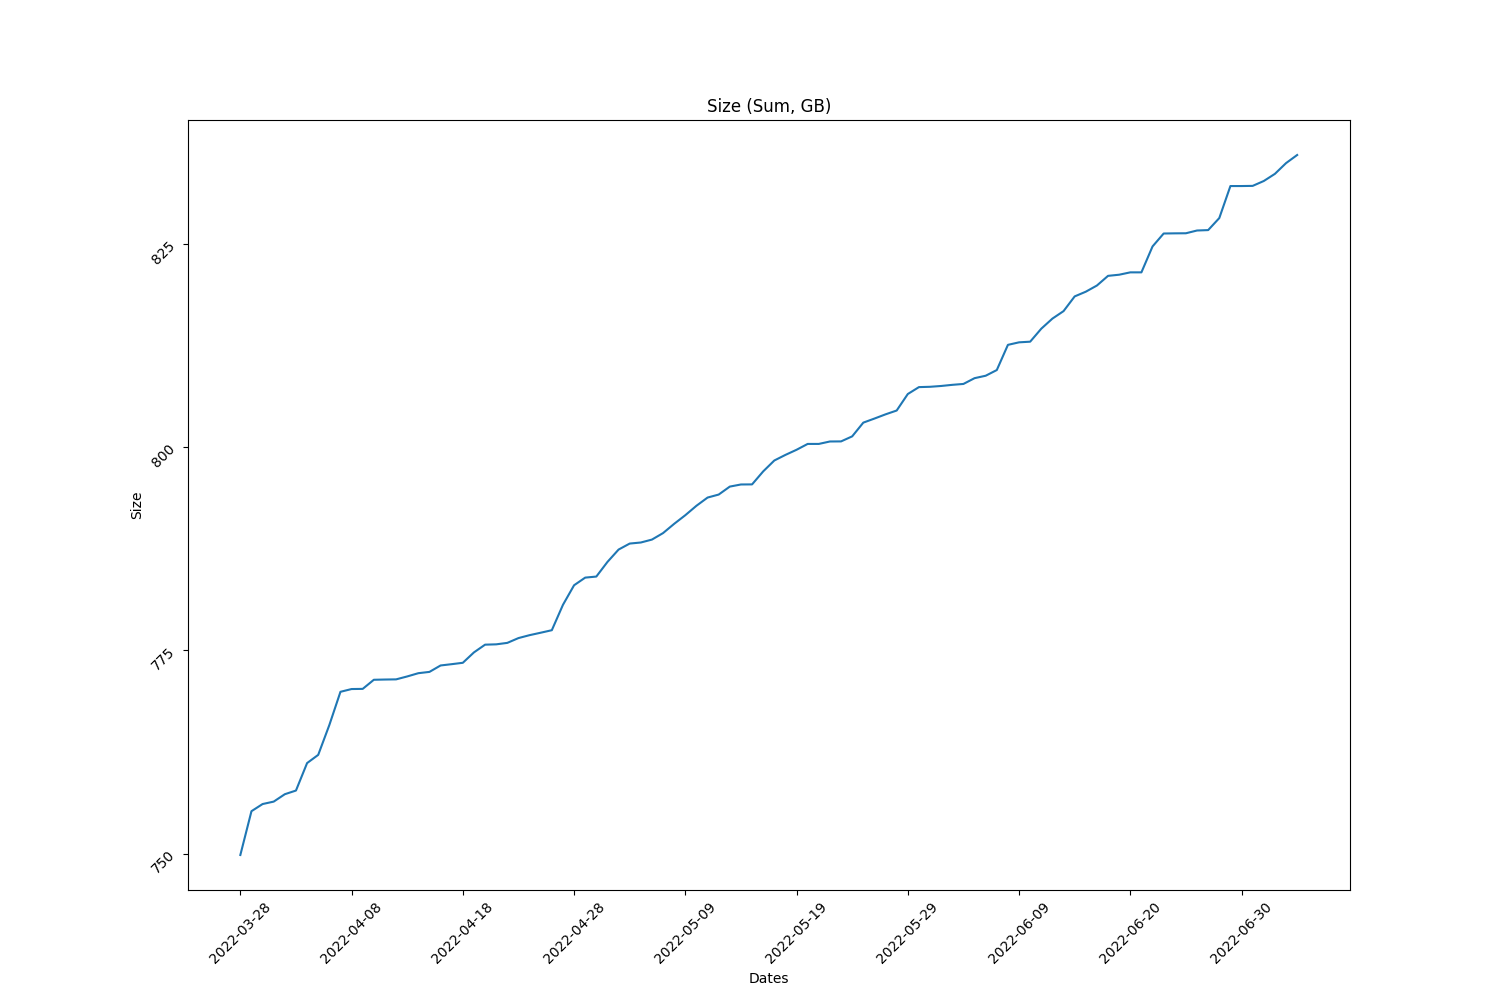
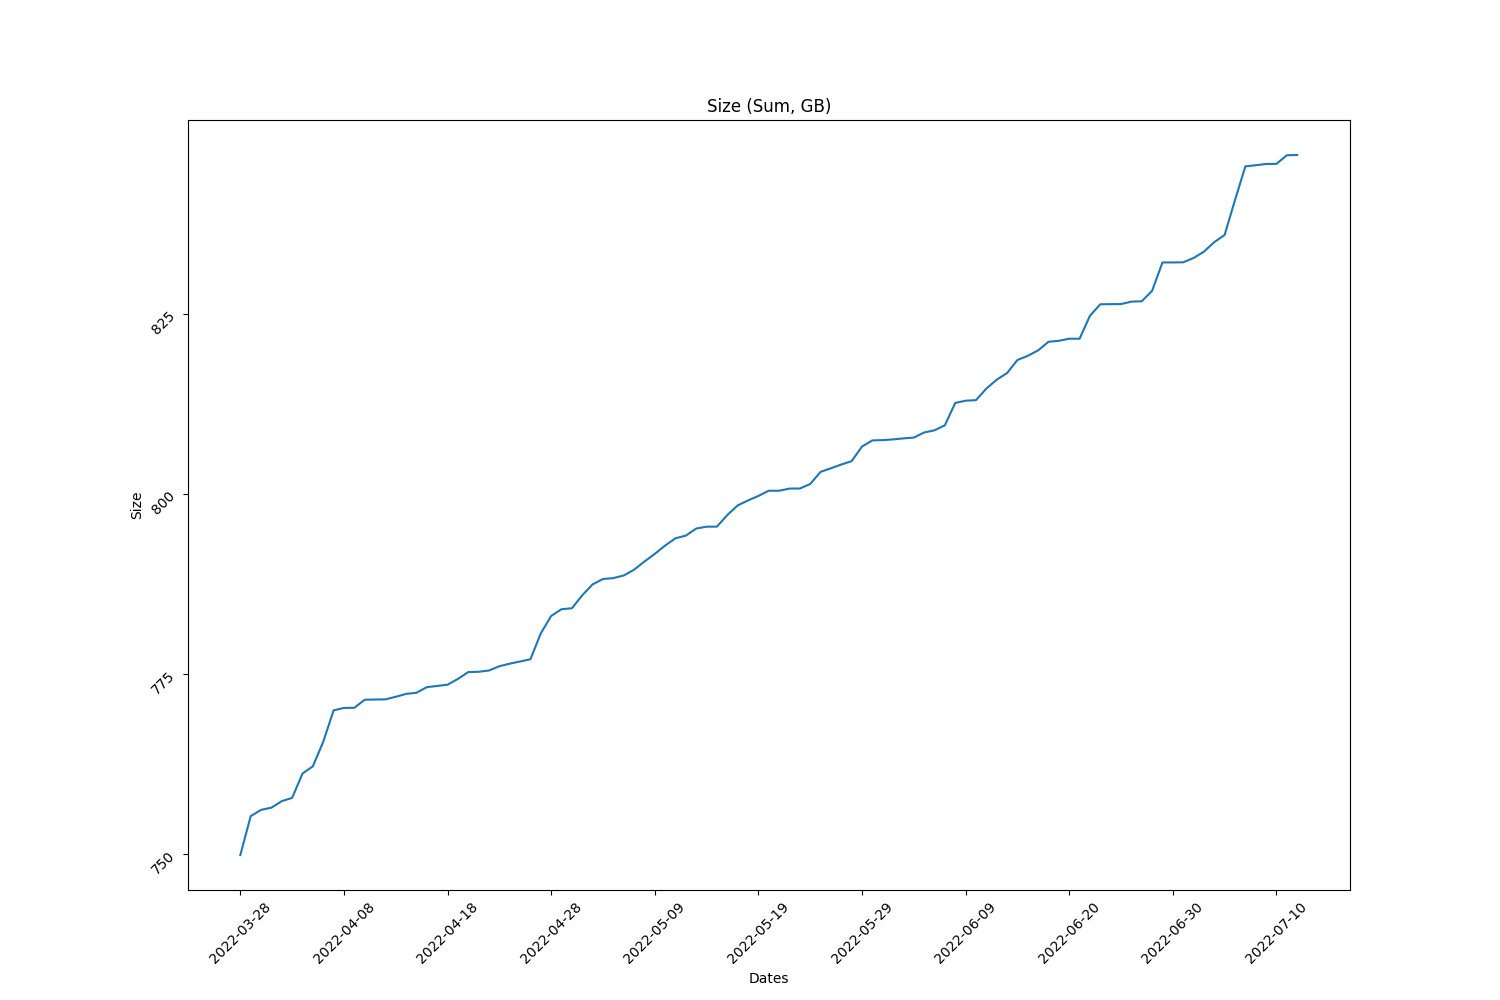
report 2022-07-13

diff --git a/report_2022-07-13T00:48:12.000Z.md b/report_2022-07-13T00:48:12.000Z.md
@@ -1,129 +1,123 @@
-Full report for the Term: 14 
+Full report for the Term: 15 
 
-Start date: 2022-06-28  
+Start date: 2022-07-05  
 
-End date: 2022-07-05 
+End date: 2022-07-13 
 
-Start Block: 1382400 
+Start Block: 1483200 
 
-End Block: 1483200 
+End Block: 1598400 
 
 # Opening 
-Number of openings: 3 
-| id                     | createdAt                |
-|------------------------|--------------------------|
-| storageWorkingGroup-19 | 2022-07-01T13:07:36.000Z |
-| storageWorkingGroup-20 | 2022-07-01T18:26:12.000Z |
-| storageWorkingGroup-22 | 2022-07-04T17:35:30.000Z |
+Number of openings: 0 
 # Hiring
-Number of hired works: 1
-| id                     |   membershipId | createdAt                |
-|------------------------|----------------|--------------------------|
-| storageWorkingGroup-15 |           2137 | 2022-07-04T17:39:18.000Z |
+Number of hired works: 0
 # Terminated workers 
 Number of terminated workers: 0 
 # Slashed workers 
 Number of slashed workers: 0 
 # Rewards
-Total Rewards: 6806240
+Total Rewards: 9912822
 | workerId               |   worker_total |
 |------------------------|----------------|
-| storageWorkingGroup-0  |        1816920 |
-| storageWorkingGroup-1  |         100940 |
-| storageWorkingGroup-10 |         432600 |
-| storageWorkingGroup-11 |         432600 |
-| storageWorkingGroup-13 |          93733 |
-| storageWorkingGroup-14 |          93727 |
-| storageWorkingGroup-2  |         432600 |
-| storageWorkingGroup-3  |         432600 |
-| storageWorkingGroup-4  |         836360 |
-| storageWorkingGroup-5  |         432600 |
-| storageWorkingGroup-7  |         836360 |
-| storageWorkingGroup-8  |         432600 |
-| storageWorkingGroup-9  |         432600 |
+| storageWorkingGroup-0  |        2076480 |
+| storageWorkingGroup-1  |         115360 |
+| storageWorkingGroup-10 |         605640 |
+| storageWorkingGroup-11 |         605640 |
+| storageWorkingGroup-13 |         605640 |
+| storageWorkingGroup-14 |         432600 |
+| storageWorkingGroup-15 |         424462 |
+| storageWorkingGroup-2  |         605640 |
+| storageWorkingGroup-3  |         605640 |
+| storageWorkingGroup-4  |         951720 |
+| storageWorkingGroup-5  |         605640 |
+| storageWorkingGroup-7  |        1067080 |
+| storageWorkingGroup-8  |         605640 |
+| storageWorkingGroup-9  |         605640 |
 # BUCKETS Info  
 |   id |   dataObjectsSize |   dataObjectsSizeLimit |   dataObjectsCount |   bags |   Utilization |   dataObjectsSize, GB |
 |------|-------------------|------------------------|--------------------|--------|---------------|-----------------------|
 |   15 |                 0 |          1500000000000 |                  0 |      0 |   0           |             0         |
-|   14 |          13226270 |          1500000000000 |                  2 |      1 |   8.81751e-06 |             0.0123059 |
-|    3 |      909909354866 |          1400000000000 |              14866 |    645 |   0.649935    |           846.592     |
-|    6 |      909909354866 |          2000000000000 |              14866 |    645 |   0.454955    |           846.592     |
-|    8 |      909909354866 |          1500000000000 |              14866 |    645 |   0.606606    |           846.592     |
 |    9 |        2580456339 |          1000000000000 |                 12 |      1 |   0.00258046  |             2.40089   |
-|   13 |          13226270 |          1500000000000 |                  2 |      1 |   8.81751e-06 |             0.0123059 |
 |   10 |          13226270 |          1500000000000 |                  2 |      1 |   8.81751e-06 |             0.0123059 |
+|    4 |      909417322780 |          2000000000000 |              14852 |    634 |   0.454709    |           846.135     |
 |   11 |          13226270 |          1500000000000 |                  2 |      1 |   8.81751e-06 |             0.0123059 |
 |   12 |                 0 |          1500000000000 |                  0 |      0 |   0           |             0         |
-|    2 |      909909354866 |          1400000000000 |              14866 |    645 |   0.649935    |           846.592     |
-|    4 |      908446016813 |          2000000000000 |              14832 |    634 |   0.454223    |           845.231     |
-|    1 |      909909354866 |          2000000000000 |              14866 |    645 |   0.454955    |           846.592     |
+|   14 |          13226270 |          1500000000000 |                  2 |      1 |   8.81751e-06 |             0.0123059 |
+|   13 |          13226270 |          1500000000000 |                  2 |      1 |   8.81751e-06 |             0.0123059 |
+|    2 |      910880735855 |          1400000000000 |              14887 |    646 |   0.650629    |           847.496     |
+|    3 |      910880735855 |          1400000000000 |              14887 |    646 |   0.650629    |           847.496     |
+|    6 |      910880735855 |          2000000000000 |              14887 |    646 |   0.45544     |           847.496     |
+|    8 |      910880735855 |          1500000000000 |              14887 |    646 |   0.607254    |           847.496     |
+|    1 |      910880735855 |          2000000000000 |              14887 |    646 |   0.45544     |           847.496     |
 |    0 |         264524788 |          2000000000000 |                 40 |      1 |   0.000132262 |             0.246118  |
 ## BUCKETS CREATED
-Bucket Created: 1
+Bucket Created: 3
 |   id |   dataObjectsSize |   dataObjectsSizeLimit |   dataObjectsCount |   bags |   Utilization |   dataObjectsSize, GB |
 |------|-------------------|------------------------|--------------------|--------|---------------|-----------------------|
-|   13 |          13226270 |          1500000000000 |                  2 |      1 |   8.81751e-06 |             0.0123059 |
+|   15 |                 0 |          1500000000000 |                  0 |      0 |   0           |             0         |
+|   12 |                 0 |          1500000000000 |                  0 |      0 |   0           |             0         |
+|   14 |          13226270 |          1500000000000 |                  2 |      1 |   8.81751e-06 |             0.0123059 |
 ## BUCKETS DELETED
 Bucket Deleted: 0
 ## Bags
-Bags Created: 2 
+Bags Created: 50 
 
 Bags Deleted: 0 
 
 # Objects Info during this Council Period 
-Total Objects Size: 53 
+Total Objects Size: 128 
 
-Total Objects Size: 8818093032 bytes 
+Total Objects Size: 13683134221 bytes 
 
 ## Objects Size Distribution
 |   <10 MB |   <100 MB |   <1000 MB |   <10000 MB |   <100000 MB |   <1000000 MB |
 |----------|-----------|------------|-------------|--------------|---------------|
-|       38 |        44 |         50 |          53 |           53 |            53 |
+|       74 |       110 |        125 |         128 |          128 |           128 |
  
 |   0-10 MB |   10-100 MB |   100-1000 MB |   1000-10000 MB |   10000-100000 MB |   100000-10000000 MB |
 |-----------|-------------|---------------|-----------------|-------------------|----------------------|
-|        38 |           6 |             6 |               3 |                 0 |                    0 |
+|        74 |          36 |            15 |               3 |                 0 |                    0 |
 ## Objects Size Distribution Per Bag 
 |   id |   objects_num |   total_size bytes |   average_size bytes |
 |------|---------------|--------------------|----------------------|
-| 2059 |             2 |            6247062 |              3123531 |
-| 2200 |             2 |            4858579 |              2429289 |
-| 2239 |             2 |             588079 |               294039 |
-| 2298 |             4 |         2181279641 |            545319910 |
-| 2310 |             4 |         4637796332 |           1159449083 |
-| 2318 |             2 |           73731425 |             36865712 |
-| 2320 |             2 |           80914485 |             40457242 |
-| 2324 |             2 |          572486581 |            286243290 |
-| 2604 |             4 |          309581020 |             77395255 |
-| 2639 |            12 |           68684481 |              5723706 |
-| 2641 |             3 |           12668754 |              4222918 |
-| 2642 |             6 |            5125692 |               854282 |
-| 2643 |             2 |              17680 |                 8840 |
-| 2644 |             5 |          864109903 |            172821980 |
-| 2646 |             1 |               3318 |                 3318 |
+| 2001 |             2 |           79863537 |             39931768 |
+| 2049 |             2 |          291319199 |            145659599 |
+| 2118 |             2 |          353986802 |            176993401 |
+| 2198 |            12 |          427720762 |             35643396 |
+| 2239 |             8 |           14202451 |              1775306 |
+| 2298 |             2 |         1182342038 |            591171019 |
+| 2310 |             8 |         7893525983 |            986690747 |
+| 2324 |             2 |          687003302 |            343501651 |
+| 2604 |            66 |         2058506146 |             31189487 |
+| 2639 |            12 |          150811534 |             12567627 |
+| 2641 |             3 |           27733527 |              9244509 |
+| 2647 |             4 |           32257190 |              8064297 |
+| 2648 |             4 |          483786728 |            120946682 |
+| 2651 |             1 |              75022 |                75022 |
 # Total object Info 
-Total Objects: 14936 
+Total Objects: 14957 
 
-Total Objects Size: 910372272684 bytes
+Total Objects Size: 911343653673 bytes
 
-Total Number of Bags in use: 616 bytes
+Total Number of Bags in use: 617 bytes
 
-Grand Total Number of Bags: 651 bytes
+Grand Total Number of Bags: 652 bytes
 
 ## Objects Size Distribution 
 |   <10 MB |   <100 MB |   <1000 MB |   <10000 MB |   <100000 MB |   <1000000 MB |
 |----------|-----------|------------|-------------|--------------|---------------|
-|     8758 |     12653 |      14843 |       14936 |        14936 |         14936 |
+|     8771 |     12673 |      14864 |       14957 |        14957 |         14957 |
  
 |   0-10 MB |   10-100 MB |   100-1000 MB |   1000-10000 MB |   10000-100000 MB |   100000-10000000 MB |
 |-----------|-------------|---------------|-----------------|-------------------|----------------------|
-|      8758 |        3895 |          2190 |              93 |                 0 |                    0 |
+|      8771 |        3902 |          2191 |              93 |                 0 |                    0 |
 ## Objects Size Distribution Per Bag 
 |   id |   objects_num |   total_size bytes |   average_size bytes |
 |------|---------------|--------------------|----------------------|
 | 2045 |           933 |        43241069533 |             46346269 |
 | 2112 |            66 |        32119879841 |            486664846 |
-| 2310 |            68 |        27949965724 |            411028907 |
+| 2310 |            70 |        28564252516 |            408060750 |
 | 2148 |            60 |        24788252201 |            413137536 |
 | 2072 |           304 |        24342398570 |             80073679 |
 | 2094 |            44 |        21364776673 |            485563106 |
@@ -167,7 +161,7 @@ Grand Total Number of Bags: 651 bytes
 | 2142 |           124 |         6507352696 |             52478650 |
 | 2082 |            99 |         6500821051 |             65664859 |
 | 2199 |           174 |         6207750574 |             35676727 |
-| 2604 |           256 |         5864940631 |             22909924 |
+| 2604 |           270 |         6105459772 |             22612813 |
 | 2096 |           126 |         5724591918 |             45433269 |
 | 2156 |            18 |         5468969175 |            303831620 |
 | 2029 |            26 |         5404197389 |            207853745 |
@@ -251,10 +245,10 @@ Grand Total Number of Bags: 651 bytes
 | 2026 |            68 |         1126151665 |             16561053 |
 | 2044 |            74 |         1105256531 |             14935899 |
 | 2070 |            35 |         1086289213 |             31036834 |
+| 2198 |            44 |         1036734310 |             23562143 |
 | 2064 |            60 |         1014789234 |             16913153 |
 | 2131 |             8 |         1010201239 |            126275154 |
 | 2121 |            15 |          989021053 |             65934736 |
-| 2198 |            42 |          978484293 |             23297245 |
 | 2113 |            11 |          977775034 |             88888639 |
 | 2200 |            30 |          952244820 |             31741494 |
 | 2408 |            24 |          940350145 |             39181256 |
@@ -301,6 +295,7 @@ Grand Total Number of Bags: 651 bytes
 | 2283 |             4 |          297609282 |             74402320 |
 | 2507 |             6 |          295696862 |             49282810 |
 | 2230 |            44 |          290977940 |              6613135 |
+| 2639 |            30 |          290236055 |              9674535 |
 | 2301 |             2 |          289909013 |            144954506 |
 | 2258 |            12 |          280363479 |             23363623 |
 | 2134 |             6 |          278292777 |             46382129 |
@@ -315,7 +310,6 @@ Grand Total Number of Bags: 651 bytes
 | 2312 |             2 |          246417451 |            123208725 |
 | 2273 |             8 |          242659771 |             30332471 |
 | 2257 |            20 |          234642635 |             11732131 |
-| 2639 |            28 |          231986038 |              8285215 |
 | 2038 |             6 |          230478492 |             38413082 |
 | 2166 |             4 |          229329802 |             57332450 |
 | 2278 |             2 |          216504032 |            108252016 |
@@ -692,6 +686,7 @@ Grand Total Number of Bags: 651 bytes
 | 2007 |             2 |              80134 |                40067 |
 | 2009 |             2 |              79920 |                39960 |
 | 2006 |             2 |              75312 |                37656 |
+| 2651 |             1 |              75022 |                75022 |
 | 2011 |             2 |              72502 |                36251 |
 | 2188 |             2 |              72382 |                36191 |
 | 2015 |             2 |              66130 |                33065 |
@@ -739,18 +734,35 @@ Grand Total Number of Bags: 651 bytes
 | 2646 |             1 |               3318 |                 3318 |
 
 
-![objects sizes](./objects_size_2022-07-05.png) 
-![objects number](./objects_number_2022-07-05.png)  
-![objects sizes](./bags_number_2022-07-05.png) 
+![objects sizes](./objects_size_2022-07-13.png) 
+![objects number](./objects_number_2022-07-13.png)  
+![objects sizes](./bags_number_2022-07-13.png) 
 # Lost Objects - GraphQl 
-Total Objects: 53 
+Total Objects: 128 
 
-Total Lost Objects: 3 
+Total Lost Objects: 20 
 
-Percentage Lost Objects: %5.660377358490566 
+Percentage Lost Objects: %15.625 
 
-|    id | createdAt                |      size |   storageBagId |
-|-------|--------------------------|-----------|----------------|
-| 14796 | 2022-06-28T12:04:30.000Z |     23762 |           2641 |
-| 14807 | 2022-06-29T10:56:48.000Z |   2330144 |           2642 |
-| 14834 | 2022-07-04T06:01:24.000Z | 154772248 |           2604 | 
+|    id | createdAt                |       size |   storageBagId |
+|-------|--------------------------|------------|----------------|
+| 14880 | 2022-07-07T06:13:30.000Z |       6298 |           2604 |
+| 14871 | 2022-07-06T21:29:42.000Z | 3373945809 |           2310 |
+| 14873 | 2022-07-07T06:04:42.000Z |   18937174 |           2604 |
+| 14879 | 2022-07-07T06:13:30.000Z |   16344153 |           2604 |
+| 14882 | 2022-07-07T06:15:54.000Z |       6308 |           2604 |
+| 14891 | 2022-07-07T12:53:54.000Z |  122011088 |           2604 |
+| 14892 | 2022-07-07T12:53:54.000Z |      13254 |           2604 |
+| 14896 | 2022-07-07T12:56:30.000Z |      13622 |           2604 |
+| 14905 | 2022-07-07T13:04:30.000Z |   30790234 |           2604 |
+| 14907 | 2022-07-07T13:07:24.000Z |   30790234 |           2604 |
+| 14908 | 2022-07-07T13:07:24.000Z |      12764 |           2604 |
+| 14920 | 2022-07-08T09:43:00.000Z |      12568 |           2604 |
+| 14923 | 2022-07-08T11:48:18.000Z |    2848208 |           2239 |
+| 14924 | 2022-07-08T11:48:18.000Z |      18394 |           2239 |
+| 14925 | 2022-07-08T11:56:12.000Z |    2848208 |           2239 |
+| 14937 | 2022-07-09T01:56:48.000Z |      10644 |           2639 |
+| 14939 | 2022-07-09T05:43:48.000Z |      40668 |           2198 |
+| 14941 | 2022-07-09T06:18:06.000Z |      40668 |           2198 |
+| 14943 | 2022-07-09T07:20:36.000Z |      13428 |           2604 |
+| 14966 | 2022-07-12T11:13:30.001Z |   24391109 |           2604 | 
